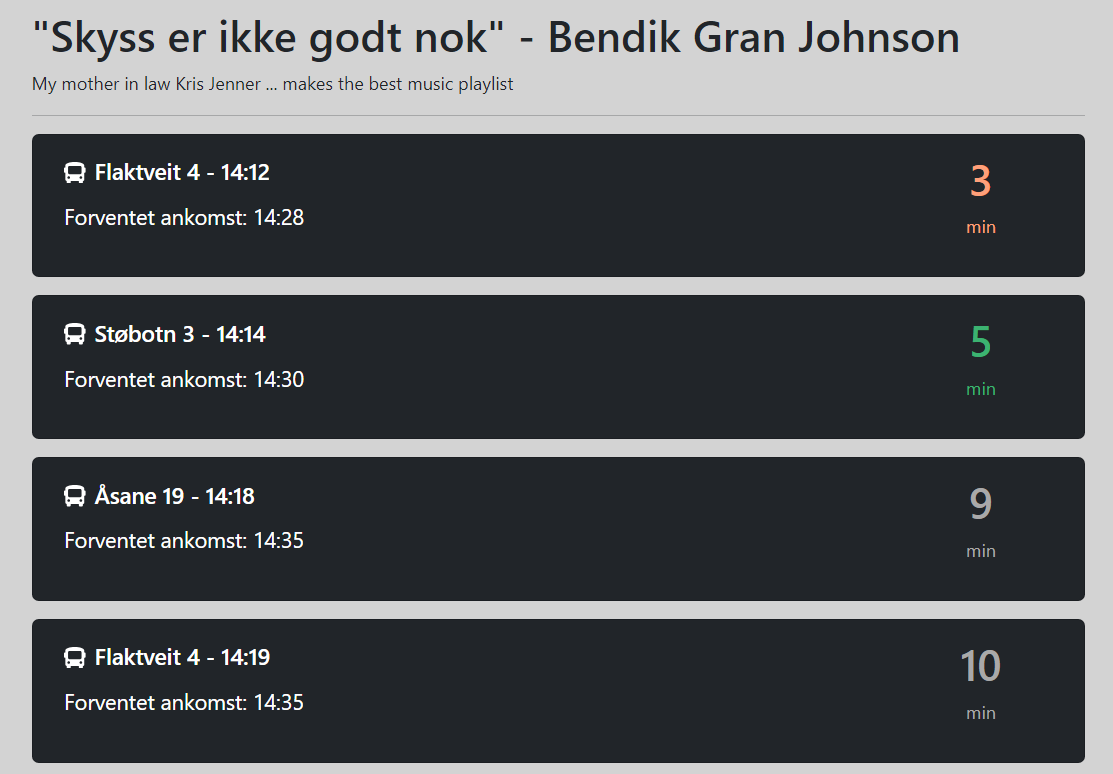
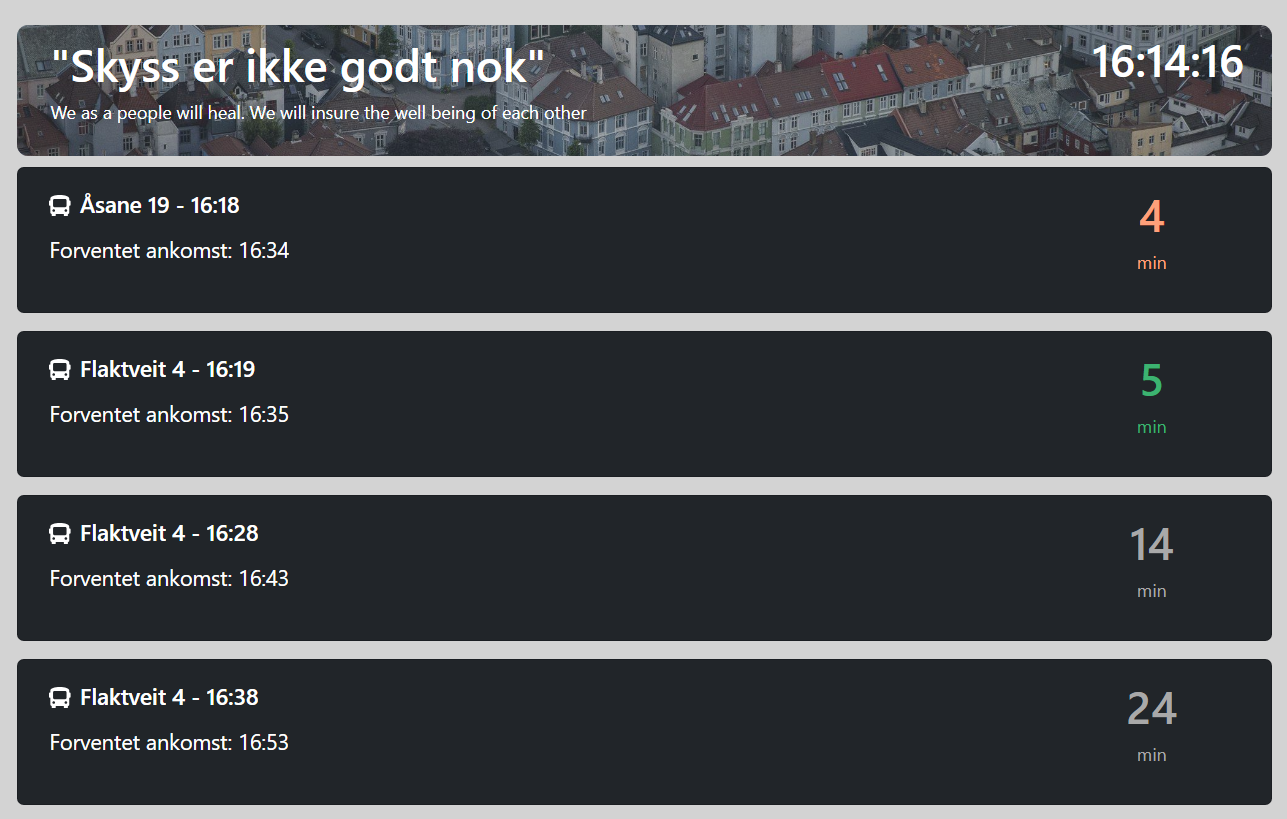
implemented real time clock and updated header styling

diff --git a/src/components/bus-card.js b/src/components/bus-card.js
@@ -14,15 +14,13 @@ function BusCard({
 }) {
   const [minutes, setMinutes] = useState(minutesUntil);
   const [badTime, setBadTime] = useState(evalBadTime(minutes));
-  
 
   useEffect(() => {
     const countdownInterval = setInterval(() => {
       setMinutes(calculateMinutesUntil(startTime));
-      setBadTime(evalBadTime(minutes))
+      setBadTime(evalBadTime(minutes));
     }, 1000);
 
-    // Cleanup the interval when the component is unmounted
     return () => clearInterval(countdownInterval);
   }, [startTime, calculateMinutesUntil]);
 
@@ -30,20 +28,23 @@ function BusCard({
     if (time > 7) {
       return "general-time";
     }
-  
+
     if (time > 4) {
-      return 'good-time';
+      return "good-time";
     }
-  
+
     if (time > 2) {
-      return 'medium-time';
+      return "medium-time";
     }
-  
-    return 'bad-time';
+
+    return "bad-time";
   }
 
   return (
-    <div key={tripIndex} className="bus-card card text-white bg-dark mb-3 container">
+    <div
+      key={tripIndex}
+      className="bus-card card text-white bg-dark mb-3 container"
+    >
       <div className="card-body">
         <div className="row">
           <div className="col-md-10 public">
@@ -65,10 +66,11 @@ function BusCard({
               </p>
             </div>
           </div>
-          <div className={`col-md-2 d-flex flex-column align-items-center minutes ${badTime}`}>
-          <h1>{minutes}</h1>
-          <p>min</p>
-
+          <div
+            className={`col-md-2 d-flex flex-column align-items-center minutes ${badTime}`}
+          >
+            <h1>{minutes}</h1>
+            <p>min</p>
           </div>
         </div>
       </div>

diff --git a/src/components/header/header.css b/src/components/header/header.css
@@ -1,0 +1,65 @@
+.header-style {
+  position: relative;
+  background-image: url("./img/mohlenpris.jpg"); 
+  background-size: cover;
+  background-position: center;
+  color: white;
+  padding: 5px;
+  border-radius: 10px;
+  margin-bottom: 10px;
+}
+
+.header-style::after {
+  content: "";
+  position: absolute;
+  top: 0;
+  left: 0;
+  width: 100%;
+  height: 100%;
+  background-color: rgba(
+    60,
+    60,
+    60,
+    0.4
+  ); 
+  border-radius: 10px;
+  z-index: 1; 
+}
+
+.header-row {
+  display: flex; 
+  flex-wrap: wrap; 
+}
+
+.header-column {
+  margin: 5px;
+}
+
+
+.header-text {
+  margin: 0px 20px 0px 20px;
+  position: relative;
+  z-index: 10;
+}
+
+.header-text-clock {
+  text-align: right;
+}
+
+
+@media only screen and (max-width: 750px) {
+  .header-text,
+  .header-text-clock {
+    text-align: center;
+  }
+
+  
+  .header-row {
+    display: block; /* Stack columns vertically */
+  }
+
+  .header-column {
+    flex: none; 
+    width: 100%; 
+  }
+}

diff --git a/src/App.js b/src/App.js
@@ -4,6 +4,7 @@ import "bootstrap/dist/css/bootstrap.min.css";
 import BusCards from "./components/bus-cards";
 import Api from "./Api";
 import { TailSpin } from "react-loader-spinner";
+import Header from "./components/header/header";
 
 function App() {
   const [tripData, setTripData] = useState(null);
@@ -40,7 +41,7 @@ function App() {
             wrapperClass=""
             visible={true}
           />
-          <div className="mt-4">Loading</div>
+          <div className="mt-4">Loading...</div>
         </div>
       </div>
     );
@@ -49,11 +50,7 @@ function App() {
   return (
     <div className="app">
       <div className="container mt-4 mb-4">
-        <header>
-          <h1>"Skyss er ikke godt nok" - Bendik Gran Johnson</h1>
-          <p>{kanyeQoute}</p>
-          <hr />
-        </header>
+        <Header kanyeQoute={kanyeQoute}/>
         {tripData && <BusCards travelData={tripData} />}
       </div>
     </div>

diff --git a/src/components/header/header.js b/src/components/header/header.js
@@ -1,0 +1,33 @@
+import React, { useState, useEffect } from "react";
+import "./header.css";
+import moment from "moment";
+
+function Header({ kanyeQoute }) {
+  const [minutes, setMinutes] = useState(moment().format("HH:mm:ss"));
+
+  useEffect(() => {
+    const countdownInterval = setInterval(() => {
+      setMinutes(moment().format("HH:mm:ss"));
+    }, 1000);
+
+    return () => clearInterval(countdownInterval);
+  }, []);
+
+  return (
+    <div className="header-style">
+      <div className="row header-row">
+        <div className="header-column col-8">
+          <header className="header-text">
+            <h1>"Skyss er ikke godt nok"</h1>
+            <p>{kanyeQoute}</p>
+          </header>
+        </div>
+        <div className="header-column col header-text header-text-clock">
+          <h1>{minutes}</h1>
+        </div>
+      </div>
+    </div>
+  );
+}
+
+export default Header;
